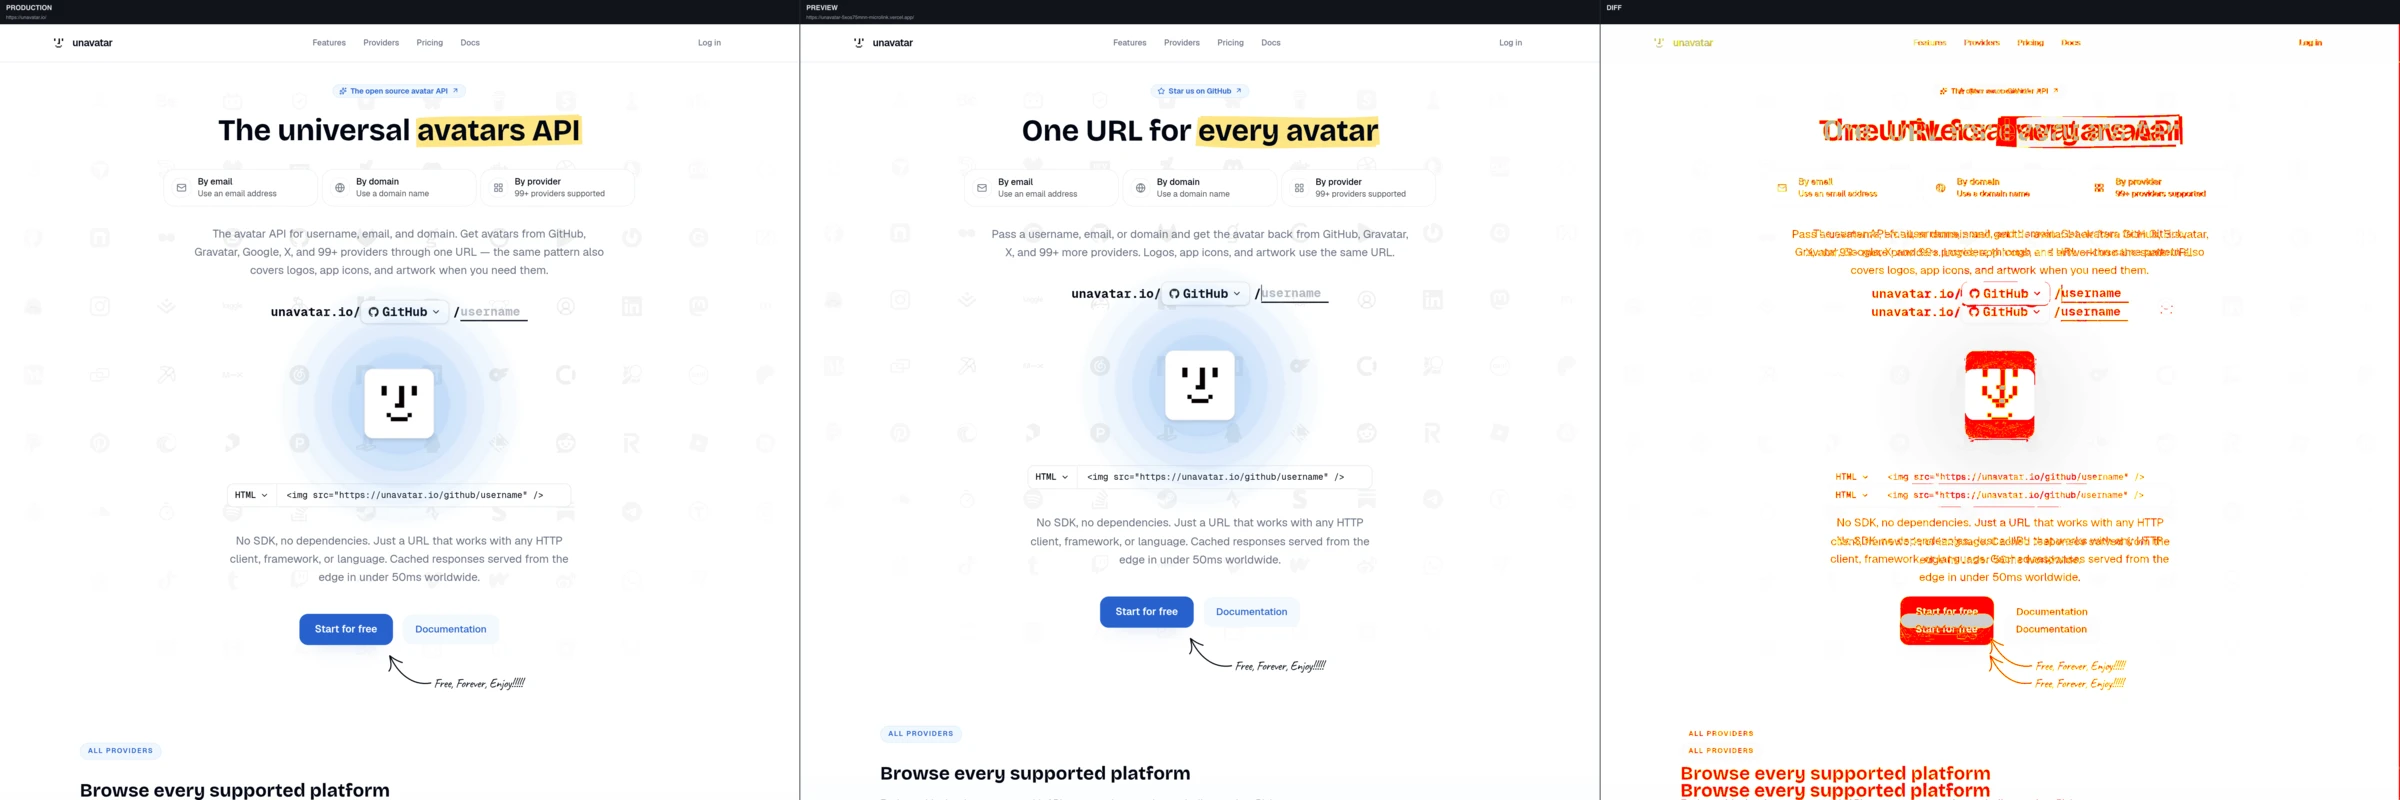
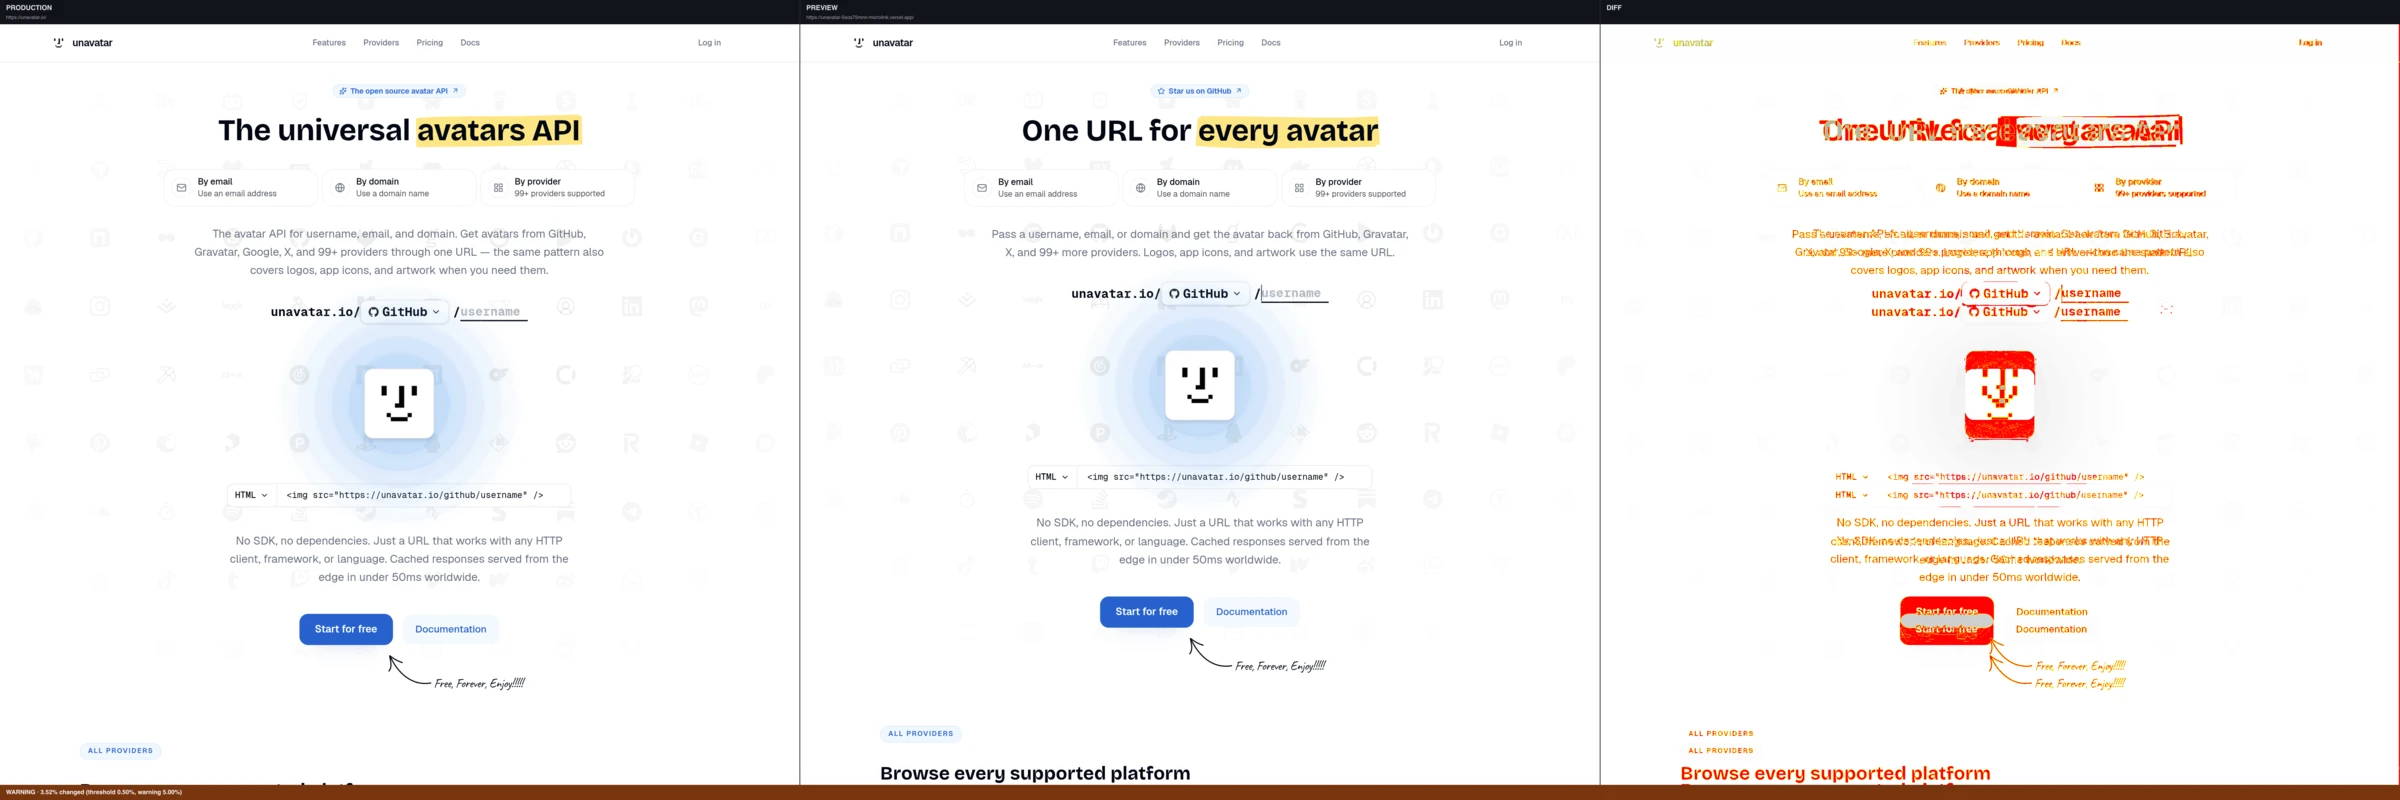
fix(web): pad example screenshots in both dimensions, keep review footer
- Pad base, head and diff to a common width and height, as the CLI does,
  so a shorter screenshot cannot clip the highlight or the review columns
- Size the review columns from composite.js's exported header, footer and
  separator constants so review.webp keeps the verdict footer
- Read a local CLI --out folder as is (single- or multi-route)
- Highlight copy says pixels past the threshold, not every changed pixel

Changed region(s): [[0.0, 0.9688, 1.0, 1.0]]

diff --git a/packages/web/components/landing/how-it-works.tsx b/packages/web/components/landing/how-it-works.tsx
@@ -136,14 +136,14 @@ export function HowItWorks() {
             <figure>
               <img
                 src="/examples/highlight.webp"
-                alt="The unavatar.io hero in highlight mode: the badge changed from “The open source avatar API” to “Star us on GitHub”, the headline from “The universal avatars API” to “One URL for every avatar”, and every pixel that changed is painted pink."
+                alt="The unavatar.io hero in highlight mode: the badge changed from “The open source avatar API” to “Star us on GitHub”, the headline from “The universal avatars API” to “One URL for every avatar”, and the pixels that changed past the highlight threshold are painted pink."
                 width={1440}
                 height={440}
                 loading="lazy"
                 className="w-full rounded-2xl bg-card"
               />
               <figcaption className="mt-3 max-w-[60ch] text-[16px] leading-[1.6] text-ink-panel-muted">
-                Where the 3.52% starts: a new badge and headline, and every pixel that changed is pink. Each run also
+                Where the 3.52% starts: a new badge and headline, with every pixel past the highlight threshold painted pink. Each run also
                 renders a{" "}
                 <a href="/examples/review.webp" className={TEXT_LINK_CLASS}>
                   full review image

diff --git a/packages/cli/src/composite.js b/packages/cli/src/composite.js
@@ -1,8 +1,8 @@
 import { createCanvas, loadImage } from 'canvas'
 
-const HEADER_HEIGHT = 64
-const FOOTER_HEIGHT = 40
-const SEPARATOR_WIDTH = 2
+export const HEADER_HEIGHT = 64
+export const FOOTER_HEIGHT = 40
+export const SEPARATOR_WIDTH = 2
 const PADDING_X = 16
 
 const truncate = (str, max) => (str.length <= max ? str : `${str.slice(0, max - 1)}…`)

diff --git a/packages/web/README.md b/packages/web/README.md
@@ -55,10 +55,10 @@ It writes `app/favicon.ico` (16, 32, 48px), `app/apple-icon.png` (180px) and `pu
 
 `public/examples/` comes from one real run of the GitHub Action ([unavatar-www#192](https://github.com/microlinkhq/unavatar-www/pull/192)). `production.webp` and `preview.webp` feed "Try a real example"; `diff.webp`, `highlight.webp` and `review.webp` illustrate "How it works".
 
-To swap in another run, build a folder with:
+To swap in another run, point the script at either:
 
-- `summary.json`: the configuration block at the bottom of the PR comment. Pasting it with its `<pre><code>` tags is fine.
-- `<slug>-base.png`, `<slug>-head.png`, `<slug>-diff.png`: the route's Production, Preview and Difference "open" links in the same comment. `<slug>` is `root` for `/` and for a single-route run, otherwise the route's `outDir`. The links are presigned for 24 hours and the files are deleted when the PR closes, so download them while the PR is open. From a local CLI run, rename `<out>/<slug>/{base,head,diff}.png` to this layout.
+- **A local CLI run:** its `--out` folder, as is. The CLI writes `summary.json` there, with the images in the same folder for a single route, or in `<out>/<outDir>/` for several.
+- **A PR comment:** a folder holding `summary.json` (the configuration block at the bottom of the comment; pasting it with its `<pre><code>` tags is fine) and `<slug>-base.png`, `<slug>-head.png`, `<slug>-diff.png` from the route's Production, Preview and Difference "open" links. `<slug>` is `root` for `/` and for a single-route run, otherwise the route's `outDir`. The links are presigned for 24 hours and the files are deleted when the PR closes, so download them while the PR is open.
 
 Then, from the repository root, with `pnpm install` done (it brings `canvas` for the CLI) and ImageMagick on the path:
 
